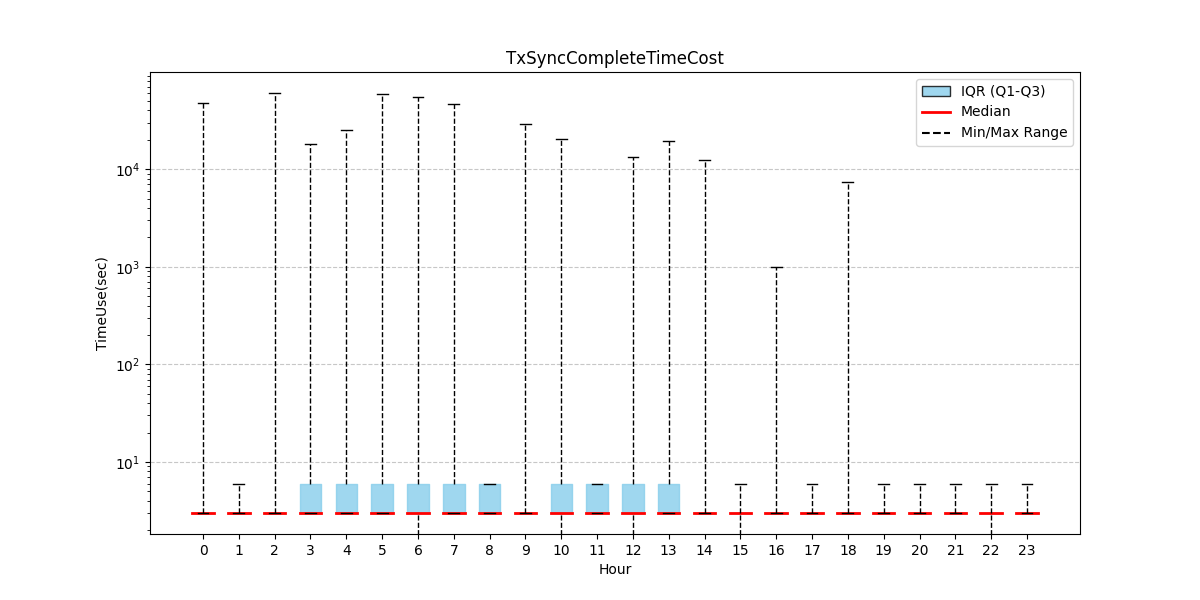
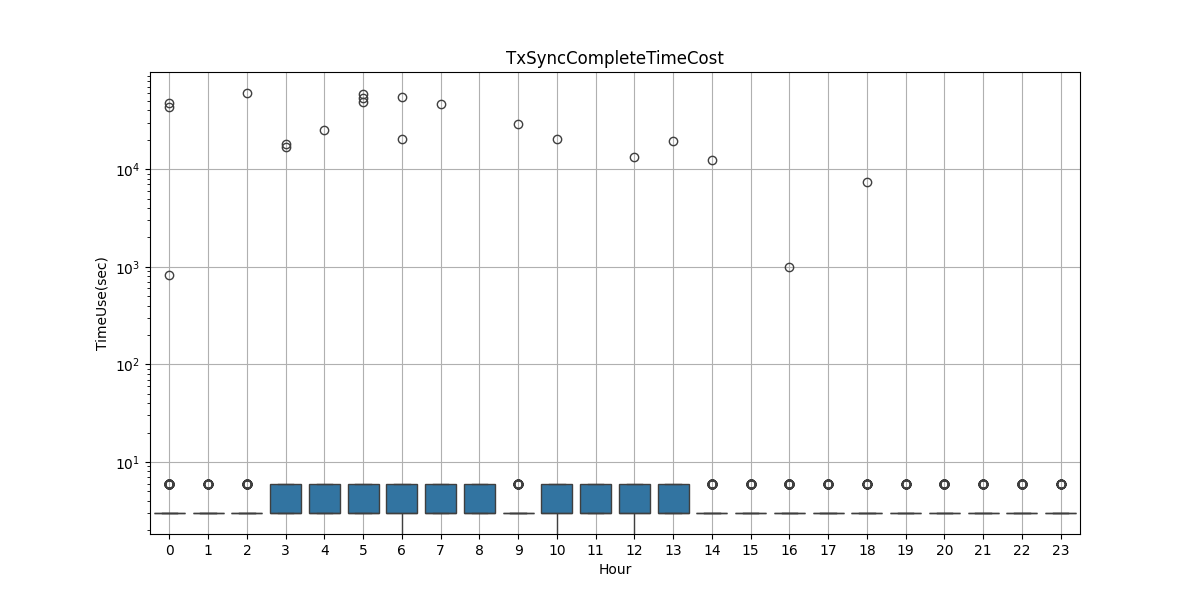
update

diff --git a/charts/draw.py b/charts/draw.py
@@ -1,6 +1,7 @@
 import pandas as pd
 import matplotlib.pyplot as plt
 import numpy as np
+import seaborn as sns
 
 
 # 折线图
@@ -25,8 +26,38 @@ def plot_line(input_csv, chart_name, x_col_index, y_col_index):
     plt.legend()
     plt.grid()
 
+    # 格式化横轴为仅显示时间
+    plt.gca().xaxis.set_major_formatter(plt.matplotlib.dates.DateFormatter("%H:%M"))
+
     # 保存图表
     plt.savefig(f"./out/{chart_name}_line.png")
+    plt.show()
+
+
+# 包含离群值的箱型图
+def plot_box_with_outliers(input_csv, chart_name, x_col_index, y_col_index, y_col_log=False):
+    # 读取 CSV 文件（假设有 4 列）
+    df = pd.read_csv(input_csv, parse_dates=[x_col_index])
+
+    # 提取小时
+    df["Hour"] = df[df.columns[x_col_index]].dt.hour
+
+    # 画箱型图，使用最后一列 'Value'
+    plt.figure(figsize=(12, 6))
+    sns.boxplot(x="Hour", y=df.columns[y_col_index], data=df)
+
+    # 设置标题和标签
+    plt.xlabel("Hour")
+    plt.ylabel(df.columns[y_col_index])
+    plt.title(f"{chart_name}")
+
+    # 显示图表
+    plt.grid()
+    # 如果需要对数刻度
+    if y_col_log:
+        plt.yscale("log")
+
+    plt.savefig(f"./out/{chart_name}_boxplot.png")
     plt.show()
 
 
@@ -102,13 +133,56 @@ def plot_box(input_csv, chart_name, x_col_index, y_col_index, y_col_log=False):
     plt.show()
 
 
+def plot_minute_average(input_csv, chart_name, timestamp_col_index, value_col_name):
+    # 读取 CSV 文件
+    df = pd.read_csv(input_csv)
+
+    print("columns", df.columns)
+    print("value column", value_col_name)
+
+    # 确保时间戳列转换为 datetime 类型
+    df[df.columns[timestamp_col_index]] = pd.to_datetime(df[df.columns[timestamp_col_index]])
+
+    # 过滤数据，只保留前 6 小时的数据
+    start_time = df[df.columns[timestamp_col_index]].min()
+    end_time = start_time + pd.Timedelta(hours=6)
+    df = df[(df[df.columns[timestamp_col_index]] >= start_time) & (df[df.columns[timestamp_col_index]] < end_time)]
+
+    print("value column2", value_col_name)
+    # 设置时间戳列为索引
+    df.set_index(df.columns[timestamp_col_index], inplace=True)
+
+    # 按分钟重采样并计算平均值
+    minute_avg = df[value_col_name].resample("T").mean()
+    print("value column2", value_col_name)
+    # 绘制图表
+    plt.figure(figsize=(12, 6))
+    plt.plot(minute_avg.index, minute_avg.values, linestyle="-", linewidth=0.5, color="b", label="Average Value per Minute")
+
+    # 设置横轴和纵轴名称
+    plt.xlabel("Time (Minutes)")
+    print("value column2", value_col_name)
+    plt.ylabel(f"{value_col_name}(Avg)")
+    plt.title(f"{chart_name}")
+    plt.xticks(rotation=45)
+    plt.legend()
+    plt.grid()
+
+    # 格式化横轴为仅显示时间
+    plt.gca().xaxis.set_major_formatter(plt.matplotlib.dates.DateFormatter("%H:%M"))
+
+    # 保存图表
+    plt.savefig(f"./out/{chart_name}_minute_avg.png")
+    plt.show()
+
+
 # 全天数据
 plot_box("./out/SyncProgressDiff.csv", "SyncProgressDiff", 0, 3)
 plot_box("./out/MemPoolRefreshRate.csv", "MemPoolRefreshRate", 1, 3)
-plot_box("./out/TxSyncCompleteTimeCost.csv", "TxSyncCompleteTimeCost", 1, 3, True)
+plot_box_with_outliers("./out/TxSyncCompleteTimeCost.csv", "TxSyncCompleteTimeCost", 1, 3, True)
 plot_box("./out/SyncTaskBacklog.csv", "SyncTaskBacklog", 0, 1)
 plot_box("./out/MineWork.csv", "MineWork-ScratchPadRate", 0, 2)
-plot_box("./out/MineWork.csv", "MineWork-LoadingRate", 0, 4)
+plot_minute_average("./out/MineWork.csv", "MineWork-LoadingRate", 0, "LoadingRate")
 plot_box("./out/MineWork.csv", "MineWork-PadMixRate", 0, 6)
 
 # # 少量数据

diff --git a/report.md b/report.md
@@ -86,13 +86,20 @@
 ![`SyncTaskBacklog.png`](./out/SyncTaskBacklog_boxplot.png) 
 - **数据描述**：未完成任务数量大多保持在16个以下，表明系统在任务调度上的高效性。
 
+### 5. 挖矿阶段耗时分布
+
+- 数据文件：[`MineWork.csv`](./out/MineWork.csv)
+- 图表：箱型图显示了不同时间点的挖矿阶段耗时分布。
+![`MineWork.png`](./out/MineWork_boxplot.png) 
+- **数据描述**：大部分挖矿阶段耗时在10秒以内，表明系统在挖矿阶段的高效性。
+
 ### 5. 服务器性能指标
 
 - 图表：包括 CPU 使用率、读 IOPS、写 IOPS 和读写磁盘延迟的折线图。
 ![`server_ssd.png`](./out/server/ssd/monitoring.jpg) 
 ![`server_ssd.png`](./out/server/ssd/resource.jpg) 
 - **数据描述**：
-  - **CPU 使用率**：大部分时间 CPU 使用率保持在 12.5% 以下，峰值达到 85%。
+  - **CPU 使用率**：大部分时间 CPU 使用率保持在 12.5% 以下。
   - **读 IOPS**：平均值 400 以下，峰值800。
   - **写 IOPS**：平均值 30 以下，峰值100。
   - **读硬盘延迟**：大部分延迟在 1 毫秒以内，极少数情况下超过 2 毫秒，平均延迟 1 毫秒。
